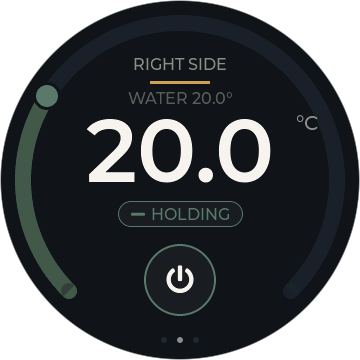
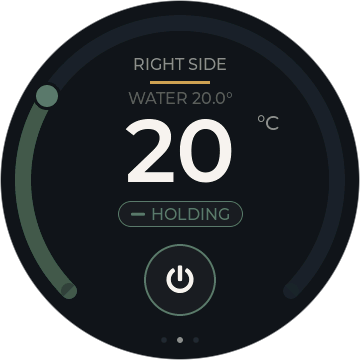
ui(A1b): °C setpoint without a zero decimal; no unit label in relative mode
Claude-Session: https://claude.ai/code/session_01BVi8ts9gbHK5sqfpGEEMjd

Changed region(s): [[0.2444, 0.3056, 0.7639, 0.5194], [0.825, 0.3056, 0.8861, 0.3667]]

diff --git a/firmware/dial-idf/components/dial_ui/scr_dial.c b/firmware/dial-idf/components/dial_ui/scr_dial.c
@@ -14,6 +14,7 @@
 #include "dial_haptics.h"
 #include "dial_ota.h"
 #include <math.h>
+#include <stdlib.h>
 #include <time.h>
 
 LV_FONT_DECLARE(dial_font_num_88)
@@ -53,7 +54,7 @@ static lv_obj_t *s_handle;       // setpoint drag handle — the ONLY temp touch
  * Recomputed only when a poll moves the water or the user moves the target.
  */
 // The setpoint numeral's opacity while the side is OFF, on either face, along
-// with its unit/LEVEL suffix and the WATER caption. Pitched below everything
+// with its unit suffix and the WATER caption. Pitched below everything
 // else so the numeral joins the chassis rather than sitting above it: once the
 // pill is hidden and the power button has gone quiet, a full-strength numeral
 // is the last thing that still reads as a live setting. It also has to lose
@@ -407,8 +408,12 @@ static void apply_identity(const dial_palette_t *pal, bool night)
 // dial_font_num_140 (docs/SPEC-night-face.md §5). Absolute mode shows the
 // dc value directly (a trivial /10 split, exact — no rounding, since it IS
 // the canonical unit) when s_units_c, or dial_dc_to_f() when not (M4 units
-// toggle). °F is display-only math with no bearing on what gets stored or
-// posted: after the Q1 units fix, absolute mode steps in exact whole 1.0°C
+// toggle). A zero tenth is dropped ("34", not "34.0"): every setpoint is a
+// whole degree (1.0 °C per level, level 0 = 27.0, rails 12/42), so the ".0"
+// carried nothing and cost a glyph — four glyphs put the unit on the ring and
+// under the handle at every °C value (A1b). A non-zero tenth is kept, which
+// is what the shared water reading (below) needs: "23.4" stays "23.4".
+// °F is display-only math with no bearing on what gets stored or posted: after the Q1 units fix, absolute mode steps in exact whole 1.0°C
 // increments, so the °F numeral now steps IRREGULARLY (e.g. 68, 70, 72, 73,
 // 75 — each is the nearest whole °F to a clean whole-°C value). That
 // irregularity is the correct, expected result of the setpoint actually
@@ -430,7 +435,12 @@ static void render_value(int temp_dc, char *out, size_t out_sz)
         if (lvl == 0) snprintf(out, out_sz, "0");
         else          snprintf(out, out_sz, "%+d", lvl);   // "+3" / "-3"
     } else if (s_units_c) {
-        snprintf(out, out_sz, "%d.%d", temp_dc / 10, temp_dc % 10);
+        // abs() on the remainder only: dc can't go negative on this pad
+        // (floor 12.0 °C), but a sub-zero water reading must not print a
+        // second '-' from the tenths.
+        int tenths = abs(temp_dc % 10);
+        if (tenths == 0) snprintf(out, out_sz, "%d", temp_dc / 10);
+        else             snprintf(out, out_sz, "%d.%d", temp_dc / 10, tenths);
     } else {
         snprintf(out, out_sz, "%d", dial_dc_to_f(temp_dc));
     }
@@ -441,8 +451,10 @@ static void render_value(int temp_dc, char *out, size_t out_sz)
 // "+10"…"+15" in relative) ran straight through it (2026-09-04 layout
 // audit §1a). OUT_RIGHT_TOP with a 22px gap and −6 lift puts the °F case
 // exactly where the fixed slot had it (box x 254–275 vs 255–277 before,
-// same y), and the widest cases ("20.0 °C" → 320, "+15 LEVEL" → 335) stay
-// inside the chord at the unit's y-band (x ≤ 347). lv_obj_align_to
+// same y). After A1b the widest cases are "42 °C" and "108 °F" — three
+// glyphs plus the unit — which sit well inside the chord at the unit's
+// y-band (x ≤ 347); relative mode has no unit label at all, so the old
+// "+15 LEVEL" case no longer exists. lv_obj_align_to
 // re-lays-out the screen first, so the numeral's fresh width is what gets
 // measured. The range-stop nudge animates s_num_box's x, not the label, so
 // the unit stays put during a nudge exactly as before.
@@ -641,14 +653,14 @@ static void apply_palette_and_state(const app_state_t *st)
     }
     lv_obj_set_style_text_color(s_unit_lbl, pal->ink_secondary, 0);
     lv_obj_set_style_text_opa(s_unit_lbl, z->on ? LV_OPA_COVER : NUM_STANDBY_OPA, 0);
-    // Relative mode has no unit — the suffix names the quantity instead. The
-    // measured-water caption above keeps its degree, so an absolute
-    // reference stays on the face in every mode.
-    if (st->rel_mode) lv_label_set_text(s_unit_lbl, "LEVEL");
-    else              lv_label_set_text(s_unit_lbl, st->units_c ? "\xC2\xB0" "C" : "\xC2\xB0" "F");
-    // Night face (§3): unit / LEVEL label hidden under minimal.
-    if (minimal) lv_obj_add_flag(s_unit_lbl, LV_OBJ_FLAG_HIDDEN);
-    else         lv_obj_clear_flag(s_unit_lbl, LV_OBJ_FLAG_HIDDEN);
+    // Relative mode has no unit and shows no label: the signed numeral
+    // ("+15") is the whole reading, and the "LEVEL" suffix it used to carry
+    // ran onto the ring for |level| >= 10 (A1b). The measured-water caption
+    // above keeps its degree, so an absolute reference stays on the face in
+    // every mode. Hidden under minimal too (night face, §3).
+    lv_label_set_text(s_unit_lbl, st->units_c ? "\xC2\xB0" "C" : "\xC2\xB0" "F");
+    if (minimal || st->rel_mode) lv_obj_add_flag(s_unit_lbl, LV_OBJ_FLAG_HIDDEN);
+    else                         lv_obj_clear_flag(s_unit_lbl, LV_OBJ_FLAG_HIDDEN);
 
     // Neutral landmark: a tick at 12 o'clock (level 0's center) shown only in
     // relative mode — it turns the ring from a plain bar into a bipolar

diff --git a/simulator/main.c b/simulator/main.c
@@ -349,8 +349,8 @@ static void scenario_dial_update(void)
 // commit 018d8f6) — so the
 // render proves the spliced '+' glyph draws AND that an off-grid device
 // value shows as the nearest level. Water below the setpoint keeps the
-// heating overlay + pill on screen, and the neutral notch/"LEVEL" suffix
-// are visible.
+// heating overlay + pill on screen, and the neutral notch is visible (the
+// "LEVEL" suffix is gone since A1b — relative mode shows no unit label).
 static void scenario_dial_relative(void)
 {
     apply_baseline();
@@ -393,7 +393,9 @@ static void scenario_dial_celsius(void)
 
 // The Home face in RELATIVE scale at the +15 rail (DIAL_REL_MAX_DC, 42.0°C):
 // the widest relative numeral ("+15" -- three glyphs, the spliced '+' plus
-// the wide '1'/'5'), the other §1a collision case for the "LEVEL" suffix.
+// the wide '1'/'5'), the other §1a collision case for the old "LEVEL"
+// suffix — since A1b relative mode shows no unit label at all, so this
+// render proves the bare "+15" with nothing to its right.
 // Same SCR_MENU bounce as scenario_dial_celsius, same reason.
 static void scenario_dial_relative_max(void)
 {
@@ -411,6 +413,38 @@ static void scenario_dial_relative_max(void)
     ui_router_go(SCR_DIAL, (void *)(uintptr_t)ZONE_A, LV_SCR_LOAD_ANIM_NONE);
     pump_ms(600);
     snapshot("dial-relative-max");
+}
+
+// The night face (Number only) mid water-alternation (docs/SPEC-night-face.md
+// §3a) in °C with a FRACTIONAL water reading: A1b drops a zero tenth from
+// the shared °C renderer ("34", not "34.0") and this is the case that must
+// keep its tenth — the water at 23.4 °C must read "23.4", in the accent, with
+// the WATER word under it. Night comes from dial_palette_set_night() (the
+// real firmware's night worker is what calls it); sim_state_reset() already
+// ships night_face_min = true. Timing: create() leaves the alternation
+// unlocked (s_last_interact_ms = 0 and the sim tick is well past
+// ALT_KNOB_LOCK_MS by now), the timer is created on the on_state inside
+// ui_router_go and first fires at +2000 ms into the water phase, which
+// holds until +4000 — so a 3000 ms pump lands mid-phase. Same SCR_MENU
+// bounce as scenario_dial_celsius, same reason; day palette restored after.
+static void scenario_dial_night_water(void)
+{
+    apply_baseline();
+    ui_router_go(SCR_MENU, NULL, LV_SCR_LOAD_ANIM_NONE);
+    pump_ms(100);
+    app_state_t *st = sim_state_ptr();
+    st->units_c = true;
+    st->ui_zone = ZONE_A;
+    zone_state_t *a = &st->zones[ZONE_A];
+    a->on = true;
+    a->temp_dc = 340;     // 34.0C -> "34" on the setpoint phase
+    a->actual_c = 23.4f;  // below setpoint: heating -> alternation runs; "23.4"
+    st->generation++;
+    dial_palette_set_night(true);
+    ui_router_go(SCR_DIAL, (void *)(uintptr_t)ZONE_A, LV_SCR_LOAD_ANIM_NONE);
+    pump_ms(3000);
+    snapshot("dial-night-water");
+    dial_palette_set_night(false);
 }
 
 // Also documents the M7 permanent "Update" row (replaces the M6 conditional
@@ -971,6 +1005,7 @@ int main(void)
     scenario_dial_relative();
     scenario_dial_celsius();
     scenario_dial_relative_max();
+    scenario_dial_night_water();
     scenario_menu();
     scenario_update();
     scenario_update_prompt();

diff --git a/docs/REPORT-screen-layout-audit.md b/docs/REPORT-screen-layout-audit.md
@@ -476,3 +476,25 @@ updates(2)" comment is stale (left alone — not a Section S row).
 `settings-pad.png` at +9 came out byte-identical to the checked-in file, so
 only four of the five "stale" shots actually changed in `a009840`.
 
+**A1b (2026-09-05, follow-up to A1):** the residual above turned out to be
+the general case, not a +15 corner. On hardware in °C every setpoint
+rendered as four glyphs ("34.0") because the setpoint always lands on a
+whole degree (1.0 °C per level, level 0 = 27.0 °C, rails 12 and 42), so the
+".0" carried nothing and pushed the anchored unit onto the chassis ring and
+under the handle at every °C value; in relative mode "+15 LEVEL" overlapped
+the ring for |level| ≥ 10. Two changes in `scr_dial.c`: `render_value()`'s
+°C branch drops a zero tenth ("34", not "34.0") and keeps a non-zero one
+(the branch is shared with the night-face water alternation, whose reading
+is fractional — "23.4" still reads "23.4"), and `apply_palette_and_state()`
+hides the unit label in relative mode instead of writing "LEVEL" into it
+(hidden if minimal OR relative; otherwise °C/°F). Measured on the fresh
+renders: `dial-celsius.png` now reads "20 °C" with the °C ink box at
+x 258–278 × y 115–129 (right edge 278, inside the °F slot's 280 and 37 px
+short of the ring's inner edge at ≥ 315; was 297–317). `dial-relative-max.png`
+shows a bare "+15" — the 364 px that differ from the A1 render are exactly
+the old "LEVEL" area (x 273–334); `dial-relative.png` likewise loses its
+"LEVEL" (x 256–317). `dial.png` and `dial-update.png` (°F) are pixel-identical
+to the A1 renders. A new scenario, `dial-night-water.png`, renders the
+Number-only night face mid water-phase in °C with the water at 23.4 °C and
+the setpoint at 34 °C: "23.4" in the accent with WATER above it, proving
+the tenth survives. Report: `docs/REPORT-layout-a1b.md`.
